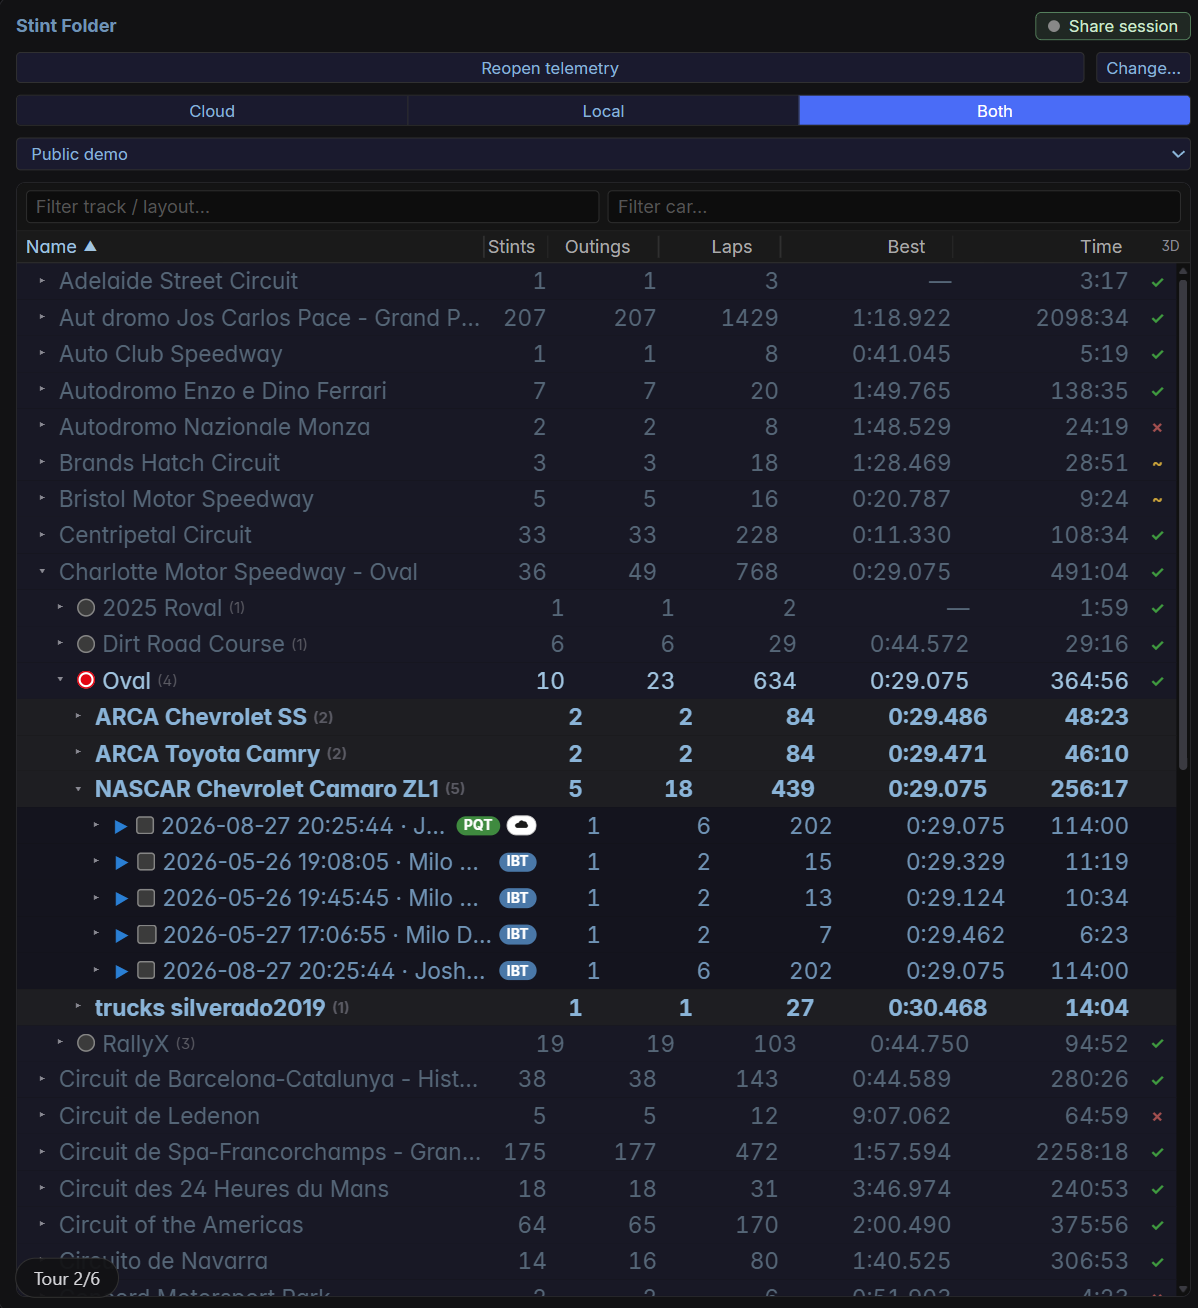
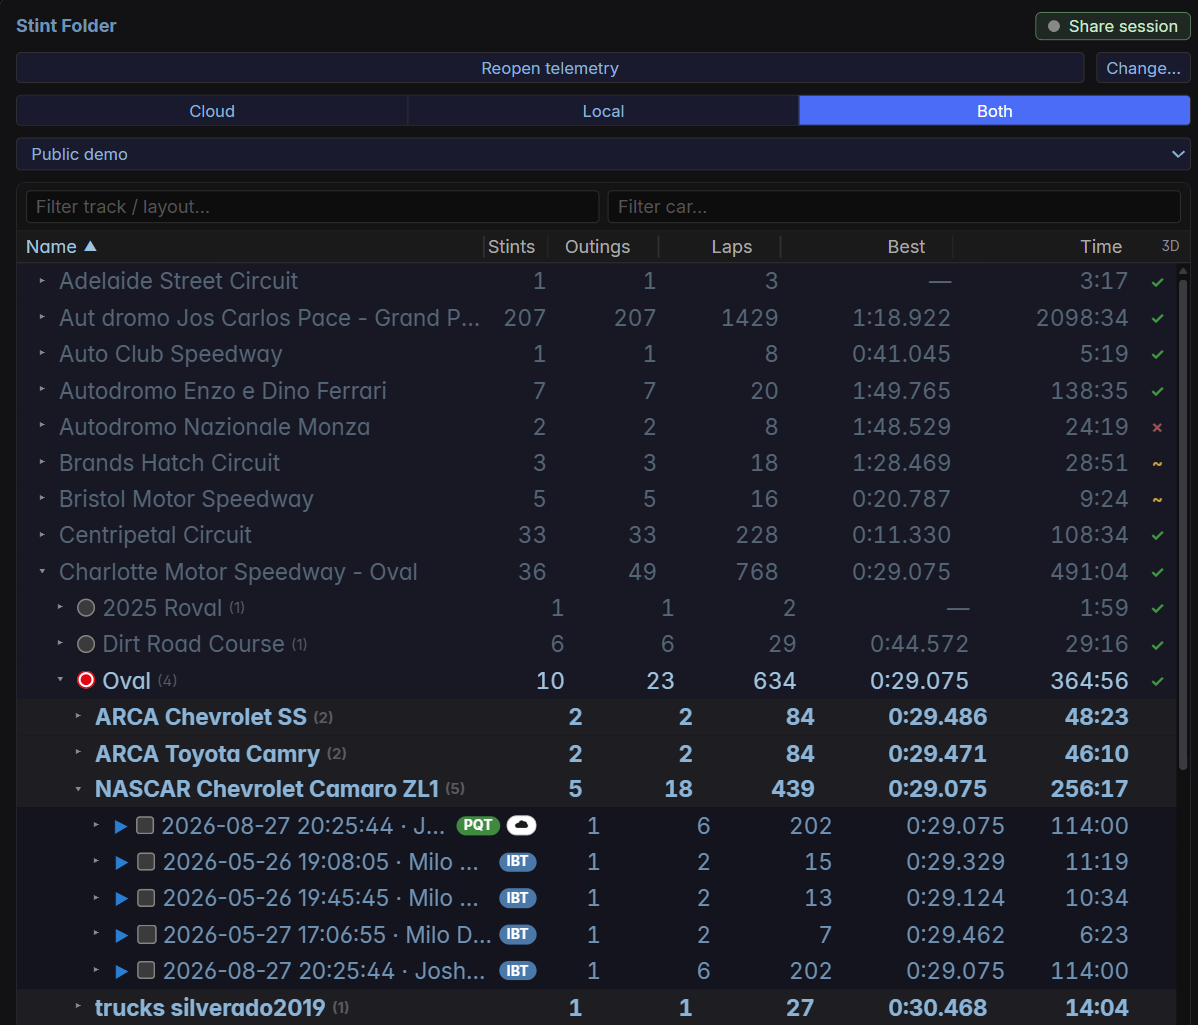
docs: crop the Stint Folder screenshots
folder.open stops under the Charlotte oval's cars (1198 x 1025, was
1308 tall). folder.tree starts at the Charlotte row and ends at the
Selected files Totals line (1195 x 922, was 1303 tall), dropping the
controls that repeat folder.open and a half-cut row. Both lose the
Tour chip. Figure sizes updated to match.

diff --git a/docs/docs-content.js b/docs/docs-content.js
@@ -157,7 +157,7 @@ window.DOCS_ARTICLES = {
   tocLabels: ['Open your telemetry folder', 'Reopen it next time', 'Check which files are listed', 'Use cloud runs', 'Show cloud, local or both', 'Switch to a private test pool', 'Related'],
   body: `
 <p>The Stint Folder panel on the left is where telemetry comes in. It lists cloud runs published by LapLabs and the files in a telemetry folder on your computer, together in one tree.</p>
-<figure><img src="docs-images/folder.open.png" alt="The Stint Folder with Reopen telemetry and Change… on the top row, the Cloud / Local / Both filter set to Both, the Public demo source, and a tree of tracks with the Charlotte oval opened to its cars and files, mixing a cloud run (PQT and cloud badges) with local IBT files." width="1198" height="1308" loading="lazy"></figure>
+<figure><img src="docs-images/folder.open.png" alt="The Stint Folder with Reopen telemetry and Change… on the top row, the Cloud / Local / Both filter set to Both, the Public demo source, and a tree of tracks with the Charlotte oval opened to its cars and files, mixing a cloud run (PQT and cloud badges) with local IBT files." width="1198" height="1025" loading="lazy"></figure>
 <h2 id="local">Open your telemetry folder</h2>
 <ol>
   <li>In the Stint Folder panel, click <strong>iRacing Telemetry</strong>. A folder picker opens in your Documents folder.</li>
@@ -214,7 +214,7 @@ window.DOCS_ARTICLES = {
   tocLabels: ['Read the tree', 'Tick what you want to load', 'Load just one row', 'Filter, sort and zoom', 'What the columns and symbols mean', 'Related'],
   body: `
 <p>Once your telemetry is listed, you choose what to load by ticking rows in the tree. Ticks take effect straight away, with no extra button to press.</p>
-<figure><img src="docs-images/folder.tree.png" alt="The Stint Folder tree opened from the Charlotte oval down to one outing's laps: the file and outing are tinted as part of the run, a ticked lap shows its S1 and S2 splits and the best-lap diamond, another lap is starred in amber, Out Lap and In Lap rows bracket the laps, and the Selected files table with its Totals line sits below." width="1195" height="1303" loading="lazy"></figure>
+<figure><img src="docs-images/folder.tree.png" alt="The Stint Folder tree opened from the Charlotte oval down to one outing's laps: the file and outing are tinted as part of the run, a ticked lap shows its S1 and S2 splits and the best-lap diamond, another lap is starred in amber, Out Lap and In Lap rows bracket the laps, and the Selected files table with its Totals line sits below." width="1195" height="922" loading="lazy"></figure>
 <h2 id="levels">Read the tree</h2>
 <p>The tree has seven levels: Track &gt; Layout &gt; Car &gt; File &gt; Stint &gt; Outing &gt; Lap. Everything starts collapsed. Click &#9656; to open a row.</p>
 <p>Layout rows show how many cars they hold in brackets, and car rows show how many files. File rows are named by session date, time and driver; hover over the name to see the original file name. Outings are the driving between pit visits, and their laps are listed in the order you drove them.</p>
